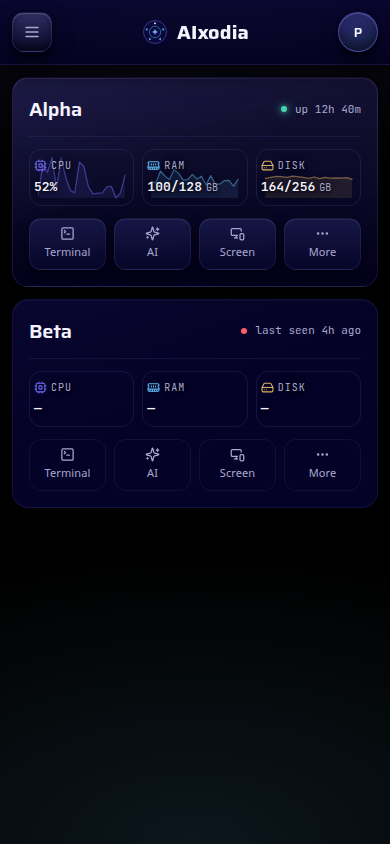
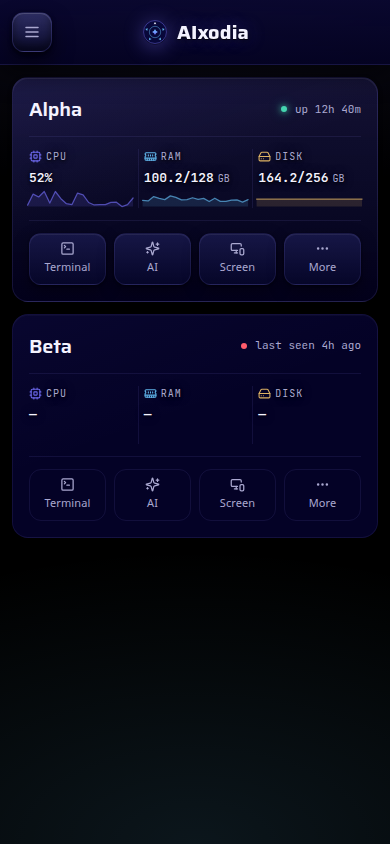
Open the drawer by dragging on PC and Android
Add a pointer gesture: a drag starting within 24px of the left edge opens the
drawer, a drag left on the open drawer closes it, committing on distance or
speed, with the panel following the finger and the scrim fading during the drag.
Mouse uses pointer events with capture; touch is handled natively because Chrome
cancels the pointer when its own gesture engages, and a vertical gesture is
released before it claims anything so the edge zone still scrolls.

diff --git a/src/mock/EnginesMock.tsx b/src/mock/EnginesMock.tsx
@@ -1,10 +1,12 @@
 //! A static mock of the machines screen: no fetching, no calls. The only state is
-//! whether the drawer is open.
+//! whether the drawer is open and, while a pointer is down, how far it has been
+//! dragged.
 //!
 //! It exists so the shape of the screen can be argued about before any of it is
 //! wired to the registry. Everything below is a literal.
 
-import { useState } from 'react'
+import { useEffect, useRef, useState } from 'react'
+import type { PointerEvent as ReactPointerEvent } from 'react'
 import type { LucideIcon } from 'lucide-react'
 import {
   Boxes,
@@ -98,6 +100,24 @@ const MACHINES: Machine[] = [
 ]
 
 const ACCOUNT = 'Tulipskun'
+
+/* A drag that starts within EDGE of the left side opens the drawer; a drag that
+   starts on the open drawer and heads left closes it again. Both commit on
+   distance or on speed, so a short flick counts. */
+const EDGE = 24
+const COMMIT = 72
+const FLICK = 0.35
+const SLOP = 4
+
+interface Drag {
+  pointerId: number
+  startX: number
+  startY: number
+  startedAt: number
+  fromOpen: boolean
+  width: number
+  dx: number
+}
 
 const DRAWER: { id: string; label: string; icon: LucideIcon; current?: boolean }[] = [
   { id: 'engines', label: 'Engines', icon: Boxes, current: true },
@@ -245,15 +265,39 @@ function Card({ machine }: { machine: Machine }) {
   )
 }
 
-function Drawer({ open, onClose }: { open: boolean; onClose: () => void }) {
+function Drawer({
+  open,
+  onClose,
+  drag,
+  panelRef,
+}: {
+  open: boolean
+  onClose: () => void
+  drag: Drag | null
+  panelRef: React.RefObject<HTMLElement>
+}) {
+  /* While a pointer is down the panel follows it instead of the class, so the
+     gesture reads as dragging the panel rather than waiting for it to appear. */
+  const offset = drag ? (drag.fromOpen ? Math.min(0, drag.dx) : Math.min(0, drag.dx - drag.width)) : null
   return (
     <>
       <div
         className={`scrim${open ? ' is-open' : ''}`}
         onClick={onClose}
         aria-hidden="true"
+        style={
+          offset === null
+            ? undefined
+            : { opacity: 1 + offset / (drag?.width ?? 1), transition: 'none' }
+        }
       />
-      <aside className={`drawer${open ? ' is-open' : ''}`} aria-label="Menu" aria-hidden={!open}>
+      <aside
+        ref={panelRef}
+        className={`drawer${open ? ' is-open' : ''}`}
+        aria-label="Menu"
+        aria-hidden={!open}
+        style={offset === null ? undefined : { transform: `translateX(${offset}px)`, transition: 'none' }}
+      >
         <div className="drawer-head">
           <img className="brand-mark" src="/brand/aixodia-mark.svg" alt="" width={24} height={24} />
           <span className="drawer-brand">AIxodia</span>
@@ -286,8 +330,123 @@ function Drawer({ open, onClose }: { open: boolean; onClose: () => void }) {
 
 export function EnginesMock() {
   const [menuOpen, setMenuOpen] = useState(false)
+  const [drag, setDrag] = useState<Drag | null>(null)
+  const panelRef = useRef<HTMLElement>(null)
+  const shellRef = useRef<HTMLDivElement>(null)
+  /* The native touch listeners outlive a render, so the gesture reads from a ref
+     and only the render values come from state. */
+  const dragRef = useRef<Drag | null>(null)
+
+  const hold = (next: Drag | null) => {
+    dragRef.current = next
+    setDrag(next)
+  }
+
+  const begin = (clientX: number, clientY: number, insideDrawer: boolean) => {
+    if (dragRef.current) return false
+    if (menuOpen ? !insideDrawer : clientX > EDGE) return false
+    const width = panelRef.current?.getBoundingClientRect().width
+    if (!width) return false
+    hold({
+      pointerId: 0,
+      startX: clientX,
+      startY: clientY,
+      startedAt: performance.now(),
+      fromOpen: menuOpen,
+      width,
+      dx: 0,
+    })
+    return true
+  }
+
+  const follow = (clientX: number) => {
+    const current = dragRef.current
+    if (!current) return
+    const dx = clientX - current.startX
+    if (Math.abs(dx) < SLOP) return
+    hold({ ...current, dx })
+  }
+
+  const settle = () => {
+    const current = dragRef.current
+    if (!current) return
+    /* Distance travelled towards the commit, and how fast it went there. */
+    const travelled = current.fromOpen ? -current.dx : current.dx
+    const speed = travelled / Math.max(16, performance.now() - current.startedAt)
+    const move = travelled > COMMIT || speed > FLICK
+    setMenuOpen(current.fromOpen ? !move : move)
+    hold(null)
+  }
+
+  /* Mouse and pen: pointer events, so a captured pointer keeps reporting outside
+     the window. */
+  const onPointerDown = (event: ReactPointerEvent<HTMLDivElement>) => {
+    if (event.pointerType === 'touch') return
+    const insideDrawer = Boolean((event.target as HTMLElement).closest('.drawer'))
+    if (begin(event.clientX, event.clientY, insideDrawer)) {
+      event.currentTarget.setPointerCapture(event.pointerId)
+    }
+  }
+
+  /* Touch: pointer events get cancelled by the browser's own gesture detection,
+     so the touch stream is handled directly and the moves it claims are
+     prevented. This is the one path that has to be non-passive. */
+  useEffect(() => {
+    const shell = shellRef.current
+    if (!shell) return
+
+    const onTouchStart = (event: TouchEvent) => {
+      const touch = event.touches[0]
+      if (!touch) return
+      begin(
+        touch.clientX,
+        touch.clientY,
+        Boolean((event.target as HTMLElement).closest('.drawer')),
+      )
+    }
+
+    const onTouchMove = (event: TouchEvent) => {
+      const touch = event.touches[0]
+      const current = dragRef.current
+      if (!touch || !current) return
+      /* A gesture that turns out to be vertical belongs to the page: let it go
+         before the drag claims any of it. */
+      const dy = touch.clientY - current.startY
+      if (current.dx === 0 && Math.abs(dy) > 8 && Math.abs(dy) > Math.abs(touch.clientX - current.startX)) {
+        hold(null)
+        return
+      }
+      event.preventDefault()
+      follow(touch.clientX)
+    }
+
+    const onTouchEnd = () => settle()
+
+    shell.addEventListener('touchstart', onTouchStart, { passive: true })
+    shell.addEventListener('touchmove', onTouchMove, { passive: false })
+    shell.addEventListener('touchend', onTouchEnd)
+    shell.addEventListener('touchcancel', onTouchEnd)
+    return () => {
+      shell.removeEventListener('touchstart', onTouchStart)
+      shell.removeEventListener('touchmove', onTouchMove)
+      shell.removeEventListener('touchend', onTouchEnd)
+      shell.removeEventListener('touchcancel', onTouchEnd)
+    }
+  }, [menuOpen])
+
   return (
-    <div className="shell">
+    <div
+      ref={shellRef}
+      className={`shell${drag ? ' is-dragging' : ''}`}
+      onPointerDown={onPointerDown}
+      onPointerMove={(event) => {
+        if (event.pointerType !== 'touch') follow(event.clientX)
+      }}
+      onPointerUp={(event) => {
+        if (event.pointerType !== 'touch') settle()
+      }}
+      onPointerCancel={() => hold(null)}
+    >
       <header className="topbar">
         <button
           type="button"
@@ -304,7 +463,7 @@ export function EnginesMock() {
         </div>
       </header>
 
-      <Drawer open={menuOpen} onClose={() => setMenuOpen(false)} />
+      <Drawer open={menuOpen} onClose={() => setMenuOpen(false)} drag={drag} panelRef={panelRef} />
 
       <main className="screen">
         {MACHINES.map((machine) => (

diff --git a/src/mock/mock.css b/src/mock/mock.css
@@ -91,6 +91,19 @@ button:disabled { cursor: not-allowed; }
   padding: 0;
   display: flex;
   flex-direction: column;
+  /* Vertical panning belongs to the page; a sideways drag belongs to the drawer. */
+  touch-action: pan-y;
+}
+
+/* While a pointer is down, nothing on the page should select or highlight. */
+.shell.is-dragging {
+  user-select: none;
+  cursor: grabbing;
+}
+
+.shell.is-dragging .drawer-item,
+.shell.is-dragging .action {
+  transition: none;
 }
 
 /* ----------------------------------------------------------------- drawer */

diff --git a/docs/ux-visual/verification/mock.md b/docs/ux-visual/verification/mock.md
@@ -694,3 +694,27 @@ fix is not a fainter line — it is giving the trace a band:
 
 Audits at 320, 360, 390, 430 and 1440: 0 low contrast, no wrapped controls, no
 uneven rows, `pageScrollY 0`; the 6px chart bleed is still the only reported spill.
+
+## Round 36 — open the drawer by dragging
+
+PC (mouse) and Android (touch) can open the menu by swiping, no library:
+
+- A drag that starts within `24px` of the left edge opens the drawer; a drag that
+  starts on the open drawer and moves left closes it. Both commit on distance
+  (`>72px`) or speed (`>0.35 px/ms`), so a flick counts and a drop-it short drag
+  does not (`SLOP` 4px). While a pointer is down the panel follows the finger via
+  an inline `translateX` and the scrim fades with it; on release the class and its
+  transition snap it the rest of the way.
+- **Mouse/pen** use pointer events with `setPointerCapture`.
+- **Touch** can't: Chrome cancels the pointer the moment its own gesture detection
+  engages, so the touch stream is handled directly (`touchmove` via a non-passive
+  listener so a claimed drag gets `preventDefault`). A gesture that turns out to
+  be vertical lets go before claiming anything, so swiping up/down inside the
+  edge zone still scrolls.
+- `touch-action: pan-y` on `.shell` keeps vertical panning with the page.
+- Verified over CDP on the built page: tap menu opens, tap scrim closes, short drag
+  stays closed, edge drag opens (`mid x=-56, scrim 0.79`), left drag closes;
+  touch open/close and vertical scroll all pass.
+
+Audits at 320, 360, 390, 430 and 1440 stay clean (0 low contrast, `pageScrollY 0`);
+`npm test` 19/19.
